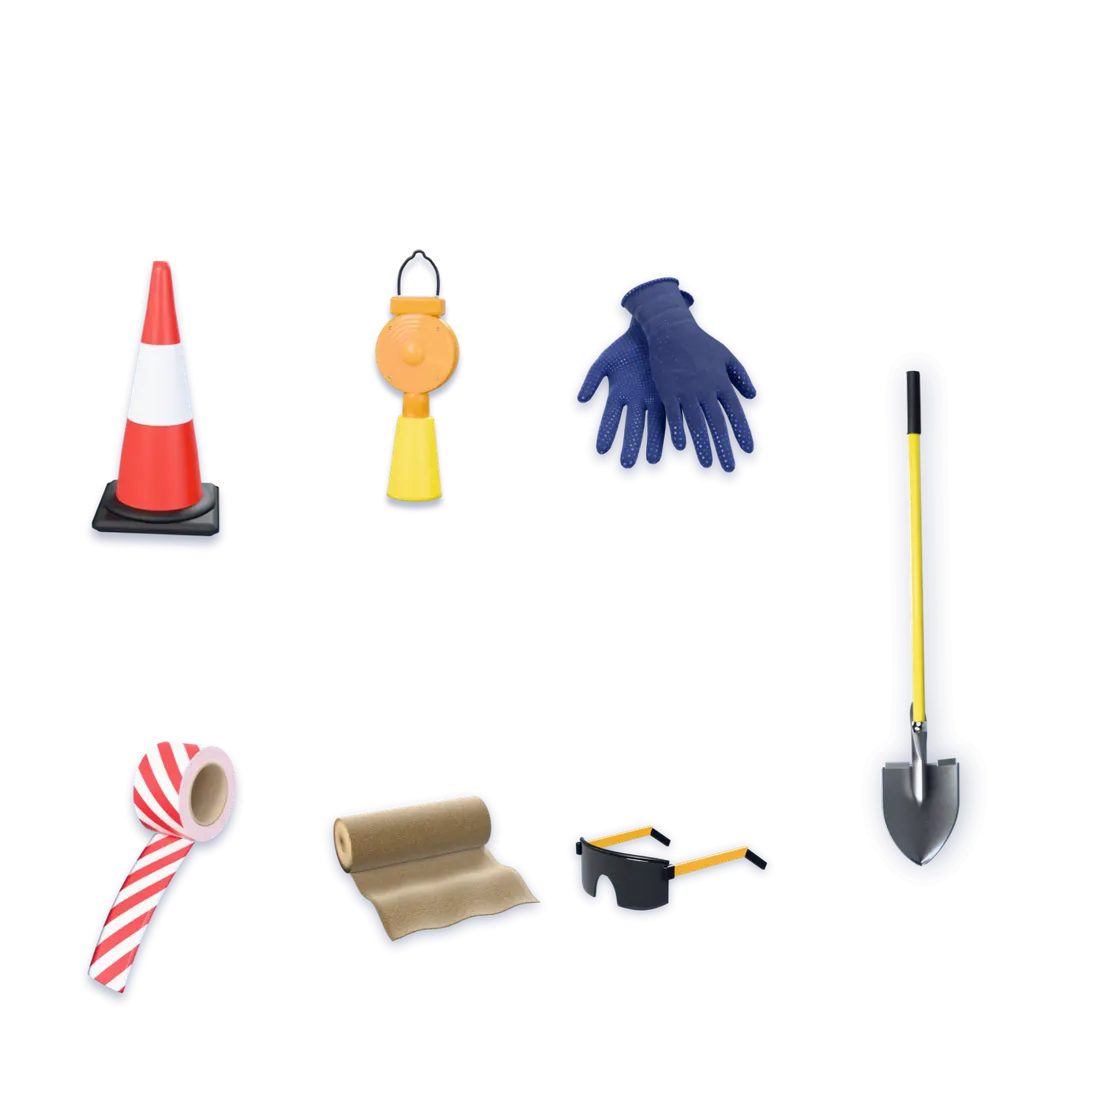
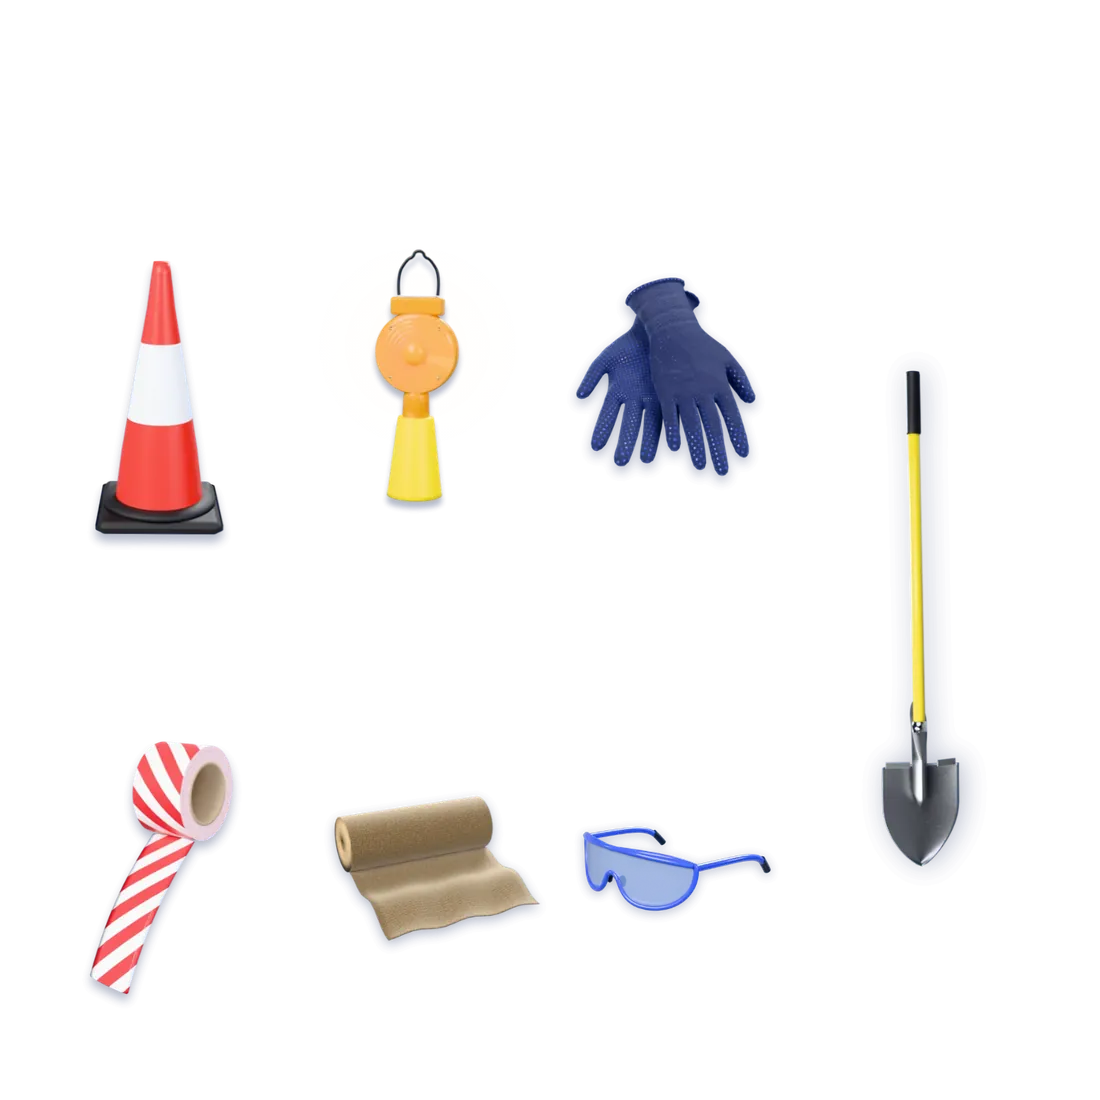
BAM site: glasses back to the earlier style (clear lens, blue frame and arms)
Claude-Session: https://claude.ai/code/session_01CeitcRo9nvt1y9ScP8KtDB

diff --git a/app/tools/bam-site/v3/static/hw3d.js b/app/tools/bam-site/v3/static/hw3d.js
@@ -20,7 +20,7 @@
     hessian: { w: 2.6 }, gloves: { w: 2.3 }, goggles: { w: 2.3 }
   };
   // the rendered frames of each item: how many, how they sit in the sheet, and their height to width
-  var SPR = {"cone":{"n":28,"cols":7,"rows":4,"ar":1.614},"gloves":{"n":28,"cols":7,"rows":4,"ar":0.9675},"goggles":{"n":28,"cols":7,"rows":4,"ar":0.5109},"hessian":{"n":28,"cols":7,"rows":4,"ar":0.7025},"light":{"n":28,"cols":7,"rows":4,"ar":2.3834},"shovel":{"n":28,"cols":7,"rows":4,"ar":0.27},"tape":{"n":28,"cols":7,"rows":4,"ar":1.3731}}, SPR_V = '1', FPS = 13;
+  var SPR = {"cone":{"n":28,"cols":7,"rows":4,"ar":1.614},"gloves":{"n":28,"cols":7,"rows":4,"ar":0.9675},"goggles":{"n":28,"cols":7,"rows":4,"ar":0.5},"hessian":{"n":28,"cols":7,"rows":4,"ar":0.7025},"light":{"n":28,"cols":7,"rows":4,"ar":2.3834},"shovel":{"n":28,"cols":7,"rows":4,"ar":0.27},"tape":{"n":28,"cols":7,"rows":4,"ar":1.3731}}, SPR_V = '2', FPS = 13;
   var order = ['cone', 'light', 'tape', 'shovel', 'hessian', 'gloves', 'goggles'];
   // the hero group: p = [x, y, depth], r = turn (radians, anticlockwise), s = size
   var HERO = {

diff --git a/app/tools/bam-site/render3d/items.py b/app/tools/bam-site/render3d/items.py
@@ -467,7 +467,56 @@ def make_goggles():
         if o.type in ('MESH', 'CURVE') and o.parent is None: o.parent = root
     return dict(axis='Z', sway=55, tilt=16, center=None, base_rot=-28)
 
-cfg = {'cone': make_cone, 'light': make_light, 'tape': make_tape, 'shovel': make_shovel, 'hessian': make_hessian, 'gloves': make_gloves, 'goggles': make_goggles}[item]()
+def make_goggles2():
+    # the earlier design the owner liked: one clear wrap-round lens, a BAM-blue brow, frame and arms, dark tips
+    S = .064   # outline units -> metres
+    def bez(p0, p1, p2, p3, n=24):
+        return [tuple((1-t)**3*p0[i] + 3*(1-t)**2*t*p1[i] + 3*(1-t)*t*t*p2[i] + t**3*p3[i] for i in range(2)) for t in [k / n for k in range(1, n + 1)]]
+    def quad(p0, p1, p2, n=12):
+        return [tuple((1-t)**2*p0[i] + 2*(1-t)*t*p1[i] + t*t*p2[i] for i in range(2)) for t in [k / n for k in range(1, n + 1)]]
+    O = [(-1.18, .22)]
+    O += bez(O[-1], (-.9, .36), (-.3, .34), (0, .3)); O += bez(O[-1], (.3, .34), (.9, .36), (1.18, .22))
+    O += bez(O[-1], (1.22, -.05), (1.08, -.42), (.62, -.44)); O += bez(O[-1], (.3, -.45), (.2, -.3), (.12, -.12))
+    O += quad(O[-1], (0, .02), (-.12, -.12)); O += bez(O[-1], (-.2, -.3), (-.3, -.45), (-.62, -.44))
+    O += bez(O[-1], (-1.08, -.42), (-1.22, -.05), (-1.18, .22))[:-1]
+    K = .32
+    W = lambda x, y, z=0.: (x * S, (K * x * x - z) * S, y * S)     # blender: x across, y depth (back), z up
+    # lens: an n-gon from the outline, cut into small triangles, then bent round the face
+    bm = bmesh.new()
+    vs = [bm.verts.new((x, y, 0)) for x, y in O]
+    f = bm.faces.new(vs)
+    bmesh.ops.triangulate(bm, faces=[f])
+    for _ in range(3): bmesh.ops.subdivide_edges(bm, edges=bm.edges[:], cuts=1, use_grid_fill=True)
+    bmesh.ops.triangulate(bm, faces=bm.faces[:])
+    for v in bm.verts: v.co = Vector(W(v.co.x, v.co.y))
+    me = bpy.data.meshes.new('lens'); bm.to_mesh(me); bm.free()
+    for p_ in me.polygons: p_.use_smooth = True
+    lens = obj('lens', me); solid(lens, .0025)
+    lm = mat('clear', (.55, .7, 1.0), .03, **{'Transmission Weight': .78, 'IOR': 1.5, 'Coat Weight': .6, 'Coat Roughness': .02, 'Coat Tint': (.75, .85, 1, 1)})
+    assign(lens, lm)
+    blue = mat('blue', (.012, .085, .78), .25, **{'Coat Weight': 1.0, 'Coat Roughness': .06})
+    dark = mat('dark', (.01, .015, .04), .3, **{'Coat Weight': .6})
+    # rim round the lens and a brow along the top
+    rim = [W(x, y, .01) for x, y in O[::2]] + [W(*O[0], .01)]
+    cu = tube('rim', rim, .036 * S, mat_=blue); cu.data.splines[0].use_cyclic_u = True
+    bp = [W(-1.16 + i * 2.32 / 32, .24 + .1 * math.cos((-1.16 + i * 2.32 / 32) * 1.35) - .02, .03) for i in range(33)]
+    br = tube('brow', bp, .036 * S, mat_=blue)
+    for x in (-1, 1):
+        n_ = lathe('pad', [(0, -.07), (.05, -.05), (.07, 0), (.05, .05), (0, .07)], seg=24)
+        n_.scale = (.6 * S, .8 * S, 1.4 * S); n_.location = W(x * .15, -.16, -.06)
+        assign(n_, dark)
+        z0 = -.32 * 1.18 * 1.18
+        arm = [W(x * 1.17, .18, z0), W(x * 1.2, .17, z0 - .5), W(x * 1.2, .13, z0 - 1.2), W(x * 1.18, 0, z0 - 1.55), W(x * 1.15, -.2, z0 - 1.72)]
+        # z here is depth in outline units; W puts depth on y: rebuild with depth term
+        arm = [(p[0], (-(z) ) * S, p[2]) for p, z in zip(arm, (z0, z0 - .5, z0 - 1.2, z0 - 1.55, z0 - 1.72))]
+        tube('arm', arm, .05 * S, mat_=blue)
+        tip = [(x * 1.18 * S, -(z0 - 1.5) * S, .02 * S), (x * 1.16 * S, -(z0 - 1.65) * S, -.12 * S), (x * 1.15 * S, -(z0 - 1.72) * S, -.2 * S)]
+        tube('tip', tip, .058 * S, mat_=dark)
+    for o in bpy.data.objects:
+        if o.type in ('MESH', 'CURVE') and o.parent is None: o.parent = root
+    return dict(axis='Z', sway=55, tilt=16, center=None, base_rot=-28)
+
+cfg = {'cone': make_cone, 'light': make_light, 'tape': make_tape, 'shovel': make_shovel, 'hessian': make_hessian, 'gloves': make_gloves, 'goggles': make_goggles, 'goggles2': make_goggles2}[item]()
 
 # ---------- framing ----------
 bpy.context.view_layer.update()

diff --git a/app/tools/bam-site/render3d/README.md b/app/tools/bam-site/render3d/README.md
@@ -2,6 +2,6 @@ How the 7 safety items on the BAM site are made (v3/static/img/spin-*.webp)
 
 1. pip install bpy (Blender as a Python module), and put in dl/: the studio light studio_small_08_1k.hdr
    and the garden_gloves_01 1k glTF from Poly Haven (CC0; the glove shape only, recoloured to BAM's navy dotted glove).
-2. python items.py ITEM frames 28 SIZE 96   (ITEM = cone light tape shovel hessian gloves goggles; SIZE 640, shovel 1000, hessian 720)
+2. python items.py ITEM frames 28 SIZE 96   (ITEM = cone light tape shovel hessian gloves goggles2 [the glasses on the site; rename frames to goggles_*]; SIZE 640, shovel 1000, hessian 720)
 3. python pack.py frames sprites 460  (then shovel at 900, hessian,gloves at 400), copy sprites/spin-*.webp to v3/static/img/
    and paste the printed sizes into SPR in v3/static/hw3d.js.
